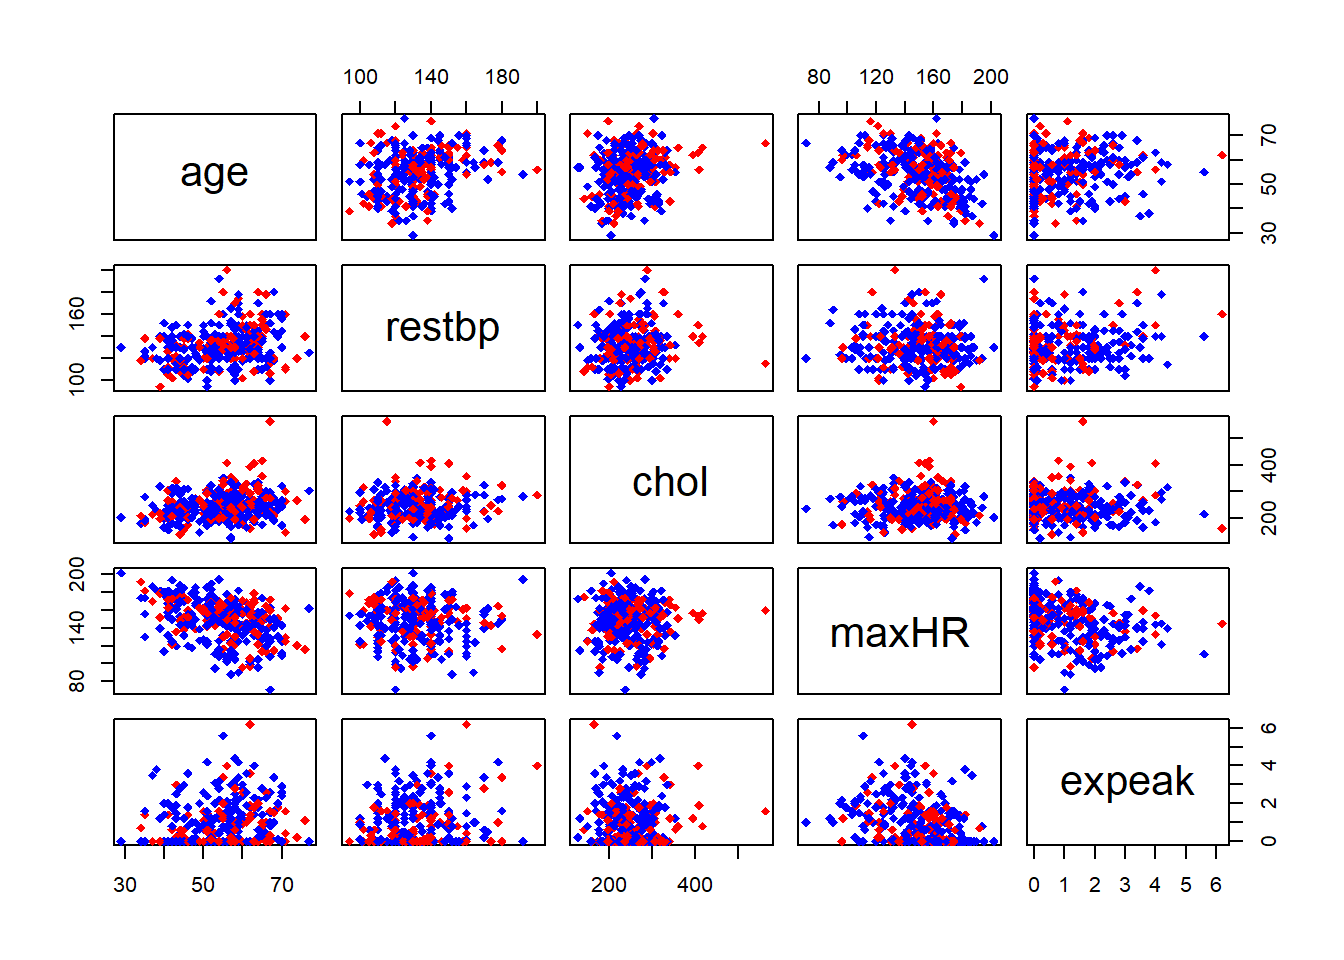
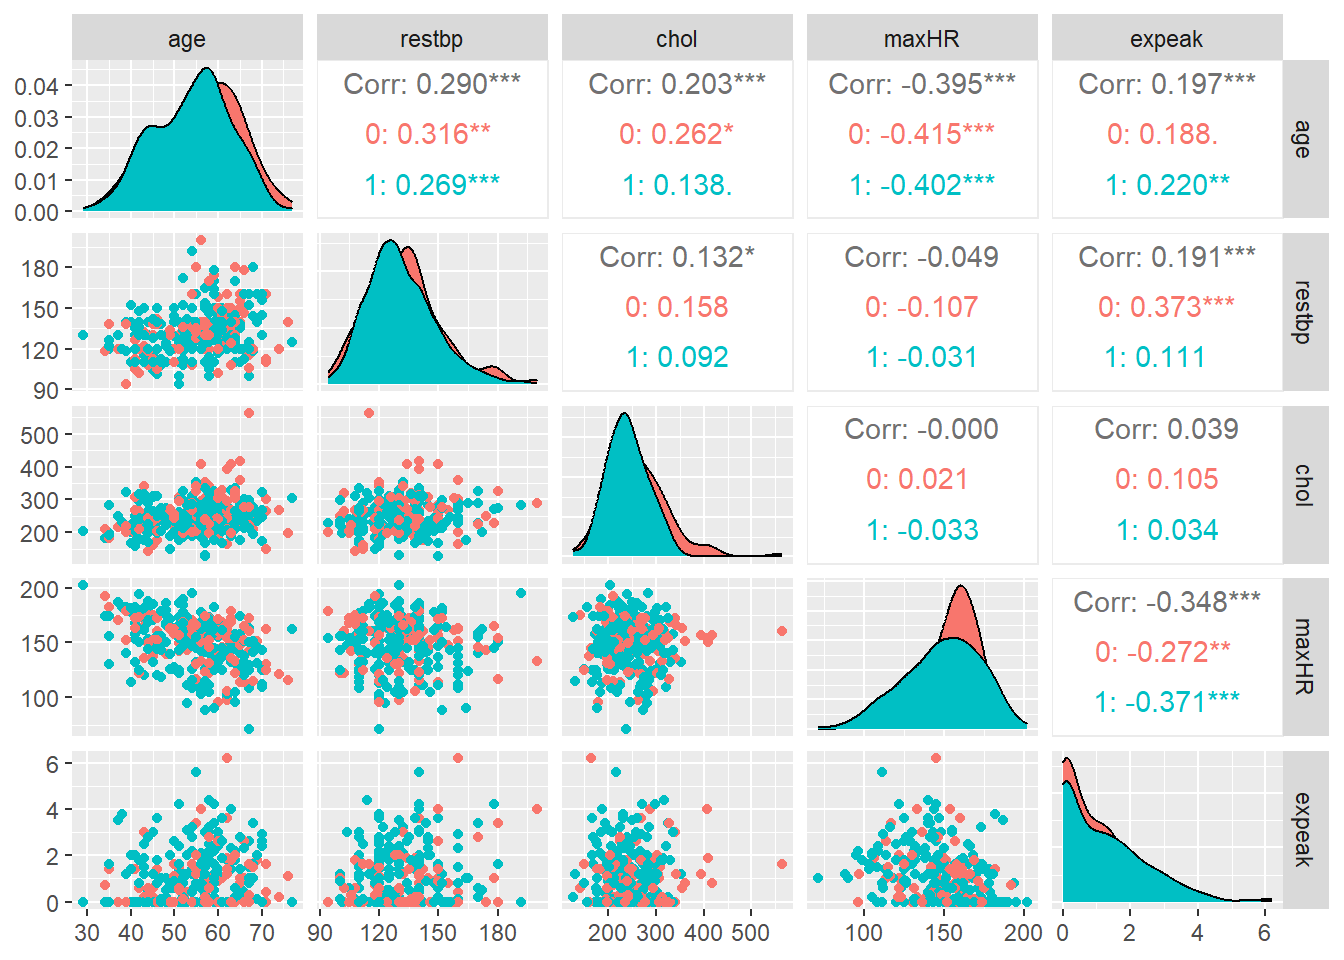
cambios 18:46 pm

diff --git a/Entrega3.html b/Entrega3.html
@@ -2,7 +2,7 @@
 <html xmlns="http://www.w3.org/1999/xhtml" lang="en" xml:lang="en"><head>
 
 <meta charset="utf-8">
-<meta name="generator" content="quarto-1.2.475">
+<meta name="generator" content="quarto-1.2.269">
 
 <meta name="viewport" content="width=device-width, initial-scale=1.0, user-scalable=yes">
 
@@ -70,7 +70,7 @@ ul.task-list li input[type="checkbox"] {
 
 <!-- Aixo per fer es beamer https://bookdown.org/yihui/rmarkdown/beamer-presentation.html -->
 <!-- data set original https://archive.ics.uci.edu/dataset/45/heart+disease -->
-<p>Este es el <a href="https://github.com/GSMir/Entrega3">repositorio</a> de GitHub en el que alojaremos todos los archivos relacionados con esta entrega. Para consultar la fuente de la que se ha extraído nuestro Dataset consulta el siguiente <a href="https://archive.ics.uci.edu/dataset/45/heart+disease">link</a>.</p>
+<p>Este es el <a href="https://github.com/GSMir/Entrega3">repositorio</a> de GitHub en el que alojaremos todos los archivos relacionados con esta entrega. Para consultar la fuente de la que se ha extraído nuestro Dataset consulta el siguiente <a href="https://archive.ics.uci.edu/dataset/45/heart+disease">link</a>. Nuestro Dataset ha sido publicado por la Universidad de California de Irvine.</p>
 <div class="cell">
 
 </div>
@@ -127,6 +127,9 @@ ul.task-list li input[type="checkbox"] {
 <div class="cell-output-display">
 <p><img src="Entrega3_files/figure-html/unnamed-chunk-6-1.png" class="img-fluid" width="672"></p>
 </div>
+<div class="cell-output-display">
+<p><img src="Entrega3_files/figure-html/unnamed-chunk-6-2.png" class="img-fluid" width="672"></p>
+</div>
 </div>
 </section>
 <section id="cruce-del-nivel-de-colesterol-únicamente-según-el-sexo" class="level2">
@@ -155,82 +158,45 @@ ul.task-list li input[type="checkbox"] {
 <p><img src="Entrega3_files/figure-html/unnamed-chunk-9-1.png" class="img-fluid" width="672"></p>
 </div>
 </div>
-<p>No se puede observar diferencias entre hombres y mujeres referente al nivel de presión arterial en reposo. 4)</p>
+<p>No se observan diferencias signficativas entre hombres y mujeres referente al nivel de presión arterial en reposo. En cambio, si volvemos a realizar el análisis según las franjas de edad de los pacientes, obtenemos el siguiente resultado:</p>
 <div class="cell">
 <div class="cell-output-display">
 <p><img src="Entrega3_files/figure-html/unnamed-chunk-10-1.png" class="img-fluid" width="672"></p>
 </div>
 </div>
-<p>En cambio si se puede observar que a medida que va aumentando la edad, tambien crece la dispersión del nivel de presión arterial en reposo. Se puede destacar que todos los puntos outliers estan en la misma franja de edad.</p>
-<p>Matrices de dispersión:</p>
+<p>A diferencia del gráfico anterior, en este, sí se observa que, a medida que va aumentando la edad de los sujetos, también crece la dispersión del nivel de presión arterial en reposo. Téngase en cuenta que, dada la escasez de individuos de mayor edad, los resultados obtenidos para la dispersión de la última franja no son concluyentes. Se puede destacar también que todos los puntos <em>outliers</em> estan en la franja de [49,59) años.</p>
+</section>
+</section>
+<section id="análisis-inferencial" class="level1">
+<h1>Análisis inferencial:</h1>
+<section id="cruces-de-variables-cuantitativas" class="level2">
+<h2 class="anchored" data-anchor-id="cruces-de-variables-cuantitativas">Cruces de variables cuantitativas:</h2>
+<p>Representamos el gráfico <em>ggpairs</em> para obtener una visión general de la relación entre todos los pares de variables cuantitativas (y además teniendo el cuenta la variable sexo) y así poder luego focalizar el estudio en aquellas en las que pueda haber mayor nivel de correlación o interés.</p>
 <div class="cell">
 <div class="cell-output-display">
 <p><img src="Entrega3_files/figure-html/unnamed-chunk-11-1.png" class="img-fluid" width="672"></p>
 </div>
 </div>
+<ol type="1">
+<li>maxHR vs Age</li>
+<li>maxHR vs expeak</li>
+<li>restbp vs age</li>
+<li>chol vs age</li>
+<li>expeak vs restbp (POR SEXOS para ver difeerncias)</li>
+<li>Comentar la NO CORR entre Chol y MaxHR</li>
+</ol>
+</section>
+<section id="contraste-frecuencia-máxima-ppm-contra-edad" class="level2">
+<h2 class="anchored" data-anchor-id="contraste-frecuencia-máxima-ppm-contra-edad">1) Contraste Frecuencia máxima PPM contra edad:</h2>
 <div class="cell">
 <div class="cell-output-display">
 <p><img src="Entrega3_files/figure-html/unnamed-chunk-12-1.png" class="img-fluid" width="672"></p>
 </div>
-</div>
-<ol start="5" type="1">
-<li>Nube de puntos: con esto podríamos ver si hay (a priori, luego podemos hacer el contraste de correlación oportuno) correlación/covarianza entre las variables maxHR y Colesterol. (La idea sería que las personas con mayor nivel de colesterol suelen estar menos en forma y por ello sus pulsaciones podrían dispararse al hacer ejercicio).</li>
-</ol>
-<div class="cell">
-<div class="cell-output-display">
-<p><img src="Entrega3_files/figure-html/unnamed-chunk-13-1.png" class="img-fluid" width="672"></p>
-</div>
-</div>
-<ol start="7" type="1">
-<li></li>
-</ol>
-<div class="cell">
-<div class="cell-output-display">
-<p><img src="Entrega3_files/figure-html/unnamed-chunk-14-1.png" class="img-fluid" width="672"></p>
-</div>
-</div>
-<p>Distribución del nivel de colesterol según el tipo de dolor en el pecho:</p>
-<div class="cell">
-<div class="cell-output-display">
-<p><img src="Entrega3_files/figure-html/unnamed-chunk-15-1.png" class="img-fluid" width="672"></p>
-</div>
-</div>
-<div class="cell">
-<div class="cell-output-display">
-<p><img src="Entrega3_files/figure-html/unnamed-chunk-16-1.png" class="img-fluid" width="672"></p>
-</div>
-</div>
-<p>Análisis inferencial:</p>
-<p>Matriz de correlaciones:</p>
-<div class="cell">
-<div class="cell-output-display">
-<p><img src="Entrega3_files/figure-html/unnamed-chunk-17-1.png" class="img-fluid" width="672"></p>
-</div>
-</div>
-<p>Vector de medias de las variables cuantitativas:</p>
-<div class="cell">
-
-</div>
-<p>Contrastes de correlación:</p>
-<ol type="1">
-<li>Contraste Edad, Máx Heart Rate:</li>
-</ol>
-<p>Confirmamos que en la <em>población</em> grande (no en nuestra muestra) la edad y el número máximo de pulsaciones tienen correlación negativa. Esto significa que, a mayor edad se espera que disminuya el número máximo de pulsaciones por minuto.</p>
-<div class="cell">
 <div class="cell-output cell-output-stdout">
-<pre><code>
-    Pearson's product-moment correlation
-
-data:  heartdisease$maxHR and heartdisease$age
-t = -7.3752, df = 295, p-value = 8.351e-13
-alternative hypothesis: true correlation is less than 0
-95 percent confidence interval:
- -1.0000000 -0.3106485
-sample estimates:
-       cor 
--0.3945629 </code></pre>
+<pre><code>[1] 8.350624e-13</code></pre>
 </div>
 </div>
+<p>Confirmamos que en la <em>población</em> de individuos con síntomas de dolor en el pecho (a la que, a partir de ahora nos referiremos como población “grande”), no en la muestral, la edad y el número máximo de pulsaciones tienen correlación negativa dado que se ha obtenido un pvalor inferior a <code>cor.test(heartdisease$maxHR, heartdisease$age, alternative = "less")$p.value</code>. Esto significa que, a mayor edad se espera que disminuya el número máximo de pulsaciones por minuto.</p>
 <ol start="2" type="1">
 <li>Contraste de correlación expeak () vs maxHR:</li>
 </ol>
@@ -269,44 +235,49 @@ sample estimates:
 0.3622103 </code></pre>
 </div>
 </div>
+<ol start="5" type="1">
+<li>Nube de puntos: con esto podríamos ver si hay (a priori, luego podemos hacer el contraste de correlación oportuno) correlación/covarianza entre las variables maxHR y Colesterol. (La idea sería que las personas con mayor nivel de colesterol suelen estar menos en forma y por ello sus pulsaciones podrían dispararse al hacer ejercicio).</li>
+</ol>
+<div class="cell">
+<div class="cell-output-display">
+<p><img src="Entrega3_files/figure-html/unnamed-chunk-15-1.png" class="img-fluid" width="672"></p>
+</div>
+</div>
+<ol start="7" type="1">
+<li></li>
+</ol>
+<div class="cell">
+<div class="cell-output-display">
+<p><img src="Entrega3_files/figure-html/unnamed-chunk-16-1.png" class="img-fluid" width="672"></p>
+</div>
+</div>
+<p>Distribución del nivel de colesterol según el tipo de dolor en el pecho:</p>
+<div class="cell">
+<div class="cell-output-display">
+<p><img src="Entrega3_files/figure-html/unnamed-chunk-17-1.png" class="img-fluid" width="672"></p>
+</div>
+</div>
+<div class="cell">
+<div class="cell-output-display">
+<p><img src="Entrega3_files/figure-html/unnamed-chunk-18-1.png" class="img-fluid" width="672"></p>
+</div>
+</div>
+<p>Análisis inferencial:</p>
+<p>Vector de medias de las variables cuantitativas:</p>
+<div class="cell">
+
+</div>
 <p>Gráfico para datos bivariantes:</p>
 <p>El boxplot bivariante es un gráfico de dispersión que incluye dos elipses estimadas, la interior que contiene aproximadamente el 50% de los datos y la exterior que contiene aproximadamente el 95% de los datos. Este tipo de gráficos nos ayuda a localizar datos atípicos. Veamos un ejemplo con los datos de los pingüinos.</p>
 <div class="cell">
 <div class="cell-output-display">
-<p><img src="Entrega3_files/figure-html/unnamed-chunk-22-1.png" class="img-fluid" width="672"></p>
+<p><img src="Entrega3_files/figure-html/unnamed-chunk-20-1.png" class="img-fluid" width="672"></p>
 </div>
 </div>
-<div class="cell">
-<div class="cell-output-display">
-<p><img src="Entrega3_files/figure-html/unnamed-chunk-23-1.png" class="img-fluid" width="672"></p>
-</div>
-</div>
-<p>Caras de Chernoff:</p>
-<div class="cell">
-<div class="cell-output cell-output-stdout">
-<pre><code>      age        sex     cp          restbp           chol       fbs    
- Min.   :29.00   0: 96   1: 23   Min.   : 94.0   Min.   :126.0   0:254  
- 1st Qu.:48.00   1:201   2: 49   1st Qu.:120.0   1st Qu.:211.0   1: 43  
- Median :56.00           3: 83   Median :130.0   Median :243.0          
- Mean   :54.54           4:142   Mean   :131.7   Mean   :247.4          
- 3rd Qu.:61.00                   3rd Qu.:140.0   3rd Qu.:276.0          
- Max.   :77.00                   Max.   :200.0   Max.   :564.0          
- restecg     maxHR       exang       expeak      slope        mves       
- 0:147   Min.   : 71.0   0:200   Min.   :0.000   1:139   Min.   :0.0000  
- 1:  4   1st Qu.:133.0   1: 97   1st Qu.:0.000   2:137   1st Qu.:0.0000  
- 2:146   Median :153.0           Median :0.800   3: 21   Median :0.0000  
-         Mean   :149.6           Mean   :1.056           Mean   :0.6768  
-         3rd Qu.:166.0           3rd Qu.:1.600           3rd Qu.:1.0000  
-         Max.   :202.0           Max.   :6.200           Max.   :3.0000  
- tHR     fdiag       decade   
- 3:164   0:160   [29,39): 10  
- 6: 18   1:137   [39,49): 70  
- 7:115           [49,59):112  
-                 [59,69): 92  
-                 [69,79): 13  
-                              </code></pre>
-</div>
-</div>
+<!-- ```{r} -->
+<!-- stars(a[,1:6], key.loc = c(44, 1.5),cex=0.45, -->
+<!--       labels=row.names(a[,1:4]), draw.segments=TRUE) -->
+<!-- ``` -->
 </section>
 </section>
 
